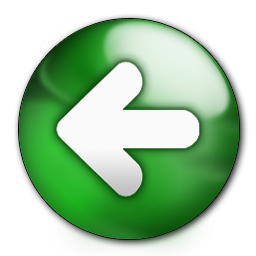
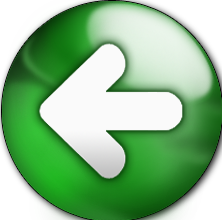
Changed the sizing of the images for now, tweaked location set

diff --git a/src/HomePane.java b/src/HomePane.java
@@ -56,7 +56,7 @@ public class HomePane extends GraphicPane {
 	private void addHelpButton() {
 		helpButton = new GImage("media/HelpButton.png", 100, 200); // change help image later
 		helpButton.scale(0.5, 0.40);
-		helpButton.setLocation((mainScreen.getWidth() - helpButton.getWidth()) / 2, (mainScreen.getHeight() - helpButton.getHeight()));
+		helpButton.setLocation((mainScreen.getWidth() - helpButton.getWidth()) / 2, (mainScreen.getHeight() - helpButton.getHeight()) - 100);
 			
 		contents.add(helpButton);
 		mainScreen.add(helpButton);
@@ -66,7 +66,7 @@ public class HomePane extends GraphicPane {
 	private void addPlayButton() {
 		playButton = new GImage("media/playbutton.png", 100, 200); // change button image later
 		playButton.scale(0.5, 0.5);
-		playButton.setLocation((mainScreen.getWidth() - playButton.getWidth()) / 2, (mainScreen.getHeight() - playButton.getHeight()));
+		playButton.setLocation((mainScreen.getWidth() - playButton.getWidth()) / 2, (mainScreen.getHeight() - playButton.getHeight()) - 300);
 		
 		contents.add(playButton);
 		mainScreen.add(playButton);
